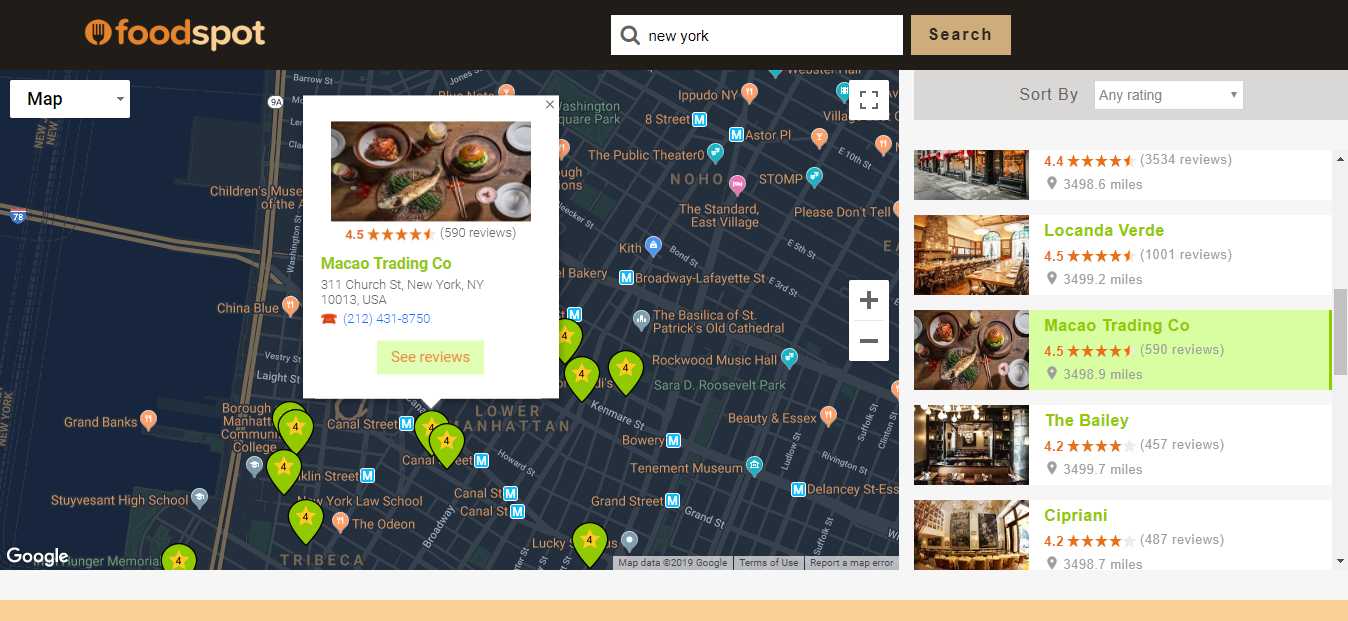
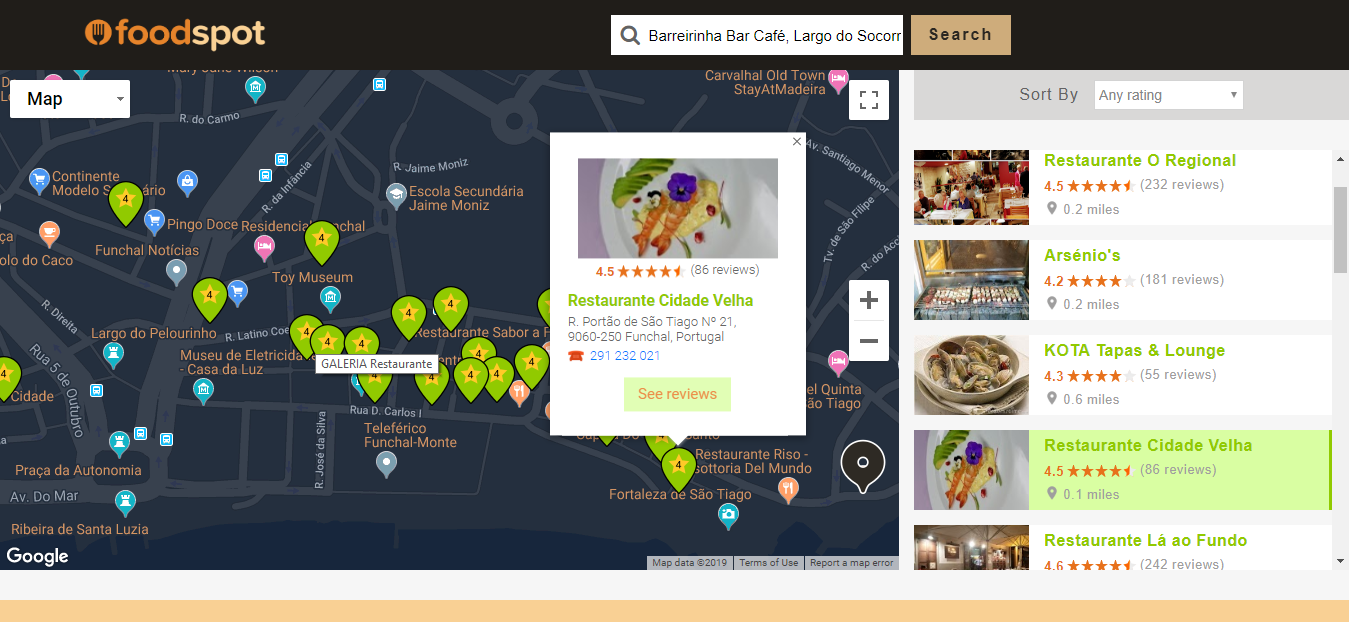
include API version, add form validation, update the README

diff --git a/js/app.js b/js/app.js
@@ -586,7 +586,7 @@ let getUserLocation = function (position) {
   // user location coordinates - read-only properties (black box)
   let lat = position.coords.latitude; // position.coords.latitude 
   let lng = position.coords.longitude;
-  console.log("To get the location used for this project, please use LAT (52.6431335), and LNG (1.3342981999999999)");
+  console.log("Google Maps API, version " + google.maps.version);
   pos = { lat: lat, lng: lng };
   createMap(pos);
 }
@@ -663,7 +663,7 @@ function geolocate() {
   let input = document.querySelector("input[name='find']");
   let options = {
     bounds: myMap.getBounds(),
-    types: ["establishment"]
+    types: ["establishment"] /* overview @ https://developers.google.com/maps/documentation/javascript/places */
   };
   let autocomplete = new google.maps.places.Autocomplete(input, options);
   // Avoid paying for data that you don't need by restricting the set of place fields that are returned to just the address components.
@@ -676,8 +676,17 @@ function geolocate() {
     
     if (!currentLocation.geometry) {
       // User entered the name of a Place that was not suggested and pressed the Enter key, or the Place Details request failed.
-      console.log("No details available for query, '" + currentLocation.name + "'");
-      window.alert("No details available for query, '" + currentLocation.name + "'");
+      // console.log("No details available for query, '" + currentLocation.name + "'");
+      // window.alert("No details available for query, '" + currentLocation.name + "'");
+      let noRestFound_msg =`
+      <div id="error-card">
+        <div id="msg-wrapper">
+          <div class="logo-wrapper"> <img src="images/no-location-marker.png" alt="no restaurants"/> </div>
+          <h4 style="color: #2E2A24; font-weight: 600; margin: 30px 0 15px 0;">No restaurants found at this location. Please search a different place.</h4>
+        </div>
+      </div>`;
+    document.getElementById('msg_display').innerHTML = noRestFound_msg;
+    console.log('No restaurants found at this location. Please search a different place.');
       return;
     } else {
       // If the place has a geometry
@@ -843,6 +852,9 @@ function restPlace(name, address, telephone, website, lat, lng, rating, userRati
     }, // .brief
     reviews: function() {
       let rvwsList = '<ul>';
+      if (!rReviews) {
+        document.getElementById('rest-reviews').innerHTML = 'No reviews found';
+      }
       for (let i = 0; i < rReviews.length; i++) {
         console.log('User: ' + rReviews[i].author_name + '\nReview Time: ' 
           + rReviews[i].relative_time_description + '\nRating: ' + rReviews[i].rating + '\nReview: ' + rReviews[i].text);
@@ -878,11 +890,12 @@ function getRestaurants(results, status) { // (Array<PlaceResult>, PlacesService
       <div id="error-card">
         <div id="msg-wrapper">
           <div class="logo-wrapper"> <img src="images/no-location-marker.png" alt="no restaurants"/> </div>
-          <h4 style="color: #2E2A24; font-weight: 600; margin: 30px 0 15px 0;">No restaurants found at your current location</h4>
+          <h4 style="color: #2E2A24; font-weight: 600; margin: 30px 0 15px 0;">No restaurants found at this location. Please search a different place.</h4>
         </div>
       </div>`;
     document.getElementById('msg_display').innerHTML = noRestFound_msg;
-    console.log('No restaurants found at your current location');
+    console.log('No restaurants found at this location. Please search a different place.');
+
   } else if (status == google.maps.places.PlacesServiceStatus.OVER_QUERY_LIMIT) {
     console.log('The app\'s exceeded its request usage limits. Give it a few seconds or try within the next 24 hours.'); // error code 403 or 429
   } else if (status == google.maps.places.PlacesServiceStatus.REQUEST_DENIED || status == google.maps.places.PlacesServiceStatus.INVALID_REQUEST) {
@@ -999,7 +1012,7 @@ mql.addListener(myCarousel); // Attach listener function on state changes
 /** Showing Restaurant reviews
 *****************************************************/
 function showReviews(rest_index) {
-  document.querySelector('#bottomSection').style.display = 'block';
+  const bottomSection = document.querySelector('#bottomSection').style.display = 'block';
   // show restaurant brief and Street View
   for (let i = 0; i < restaurantsList.length; i++) {
     if (i === rest_index) {
@@ -1032,7 +1045,9 @@ function showReviews(rest_index) {
 //Open modal form
 function addReview(rest_index) {
   document.getElementById('review_dialog-box').innerHTML = modal;
-  //passing onClick function to a button
+  //passing new attributes to form elems
+  // const nameInput = document.getElementById('full-name');
+  // nameInput.setAttribute('required', '');
   let modal_addReviewBtn = document.getElementById('add-review-btn');
   modal_addReviewBtn.setAttribute('onClick', `submitReview(${rest_index});`);
 }
@@ -1044,14 +1059,22 @@ function close_ReviewForm() {
 }
 //submit review form
 function submitReview(rest_index) {
-  document.getElementById('full-name').required;
-  document.getElementById('user-review').required;
   // take user input 
   const user_fName = document.getElementById('full-name').value;
+  // user name validation
+  if (user_fName == "") {
+    alert("Please include your name");
+    return false;
+  }
   const dropdown = document.getElementById('score');
   const score = dropdown.options[dropdown.selectedIndex].text;
   let user_score = parseInt(score, 10);
   const user_comment = document.getElementById('user-review').value;
+  // user review validation
+  if (user_comment == "") {
+    alert("Please add a review.");
+    return false;
+  }
   // add review to restaurantsList array
   const newReview = { 
     author_name: user_fName,
@@ -1066,6 +1089,7 @@ function submitReview(rest_index) {
     }
   }
   close_ReviewForm(); 
+  console.log('Thank you! Your review will help other people find the best places to go.');
 }
 
 /** Find Place from Query
@@ -1110,3 +1134,4 @@ function codeAddress() {
 
   console.log(restaurantsList);
 }
+

diff --git a/index.html b/index.html
@@ -78,9 +78,9 @@
               </select> -->
               <select name="rating-list" id="rating-list" onchange="getSelect(this)">
                 <option selected value="[0,1,2,3,4,5]">Any rating</option>
-                <option value="[5]">5 stars</option>
-                <option value="[4]">4 stars</option>
-                <option value="[1,2,3]">1-3 stars</option>
+                <option value="[5]">5 star</option>
+                <option value="[4]">4 and up</option>
+                <option value="[1,2,3]">1-3 and up</option>
               </select>
             </div>
             <div class="restaurants-list-wrapper">
@@ -105,7 +105,7 @@
           <div id="rest-reviews-wrapper" class="rest-info">
             <h3 style="height: margin: 0 0 4px; padding: 4px 0; font-weight: 600; color: #2E2A24;">Reviews
               <div style="float: right; display: flex; border: 1px solid #2E2A24; margin-bottom: 2px; padding: 2px; width: 38px; height: 38px;">
-                <a href="#header" title="go up" style="display: flex;"><img src="images/up-icon.png" style="width: 100%; height: 100%;"/></a>
+                <a href="#header" onclick="goUp();" title="go up" style="display: flex;"><img src="images/up-icon.png" style="width: 100%; height: 100%;"/></a>
               </div>
               <div style="float: right; display: flex; font-size: 14px; border: 1px solid #2E2A24; margin: 0 10px 2px 0; height: 38px;">
                 <button id="leave-review" class="open-button" style="display: flex;">
@@ -141,8 +141,8 @@
     <script src="https://code.jquery.com/jquery-3.4.1.js" integrity="sha256-WpOohJOqMqqyKL9FccASB9O0KwACQJpFTUBLTYOVvVU=" crossorigin="anonymous"></script>
     <script src="https://cdnjs.cloudflare.com/ajax/libs/popper.js/1.12.9/umd/popper.min.js" 
       integrity="sha384-ApNbgh9B+Y1QKtv3Rn7W3mgPxhU9K/ScQsAP7hUibX39j7fakFPskvXusvfa0b4Q" crossorigin="anonymous"></script>
-    <!-- Google Maps JavaScript API v3.38, initMap() -->
-    <script src="https://maps.googleapis.com/maps/api/js?v=3.38&key=AIzaSyCe_PRvM5yLjmgBr6tuRH5-Dv4PmhuGVvg&libraries=places,geometry&callback=initMap" async defer></script>
+    <!-- Google Maps JavaScript API 3.37.10a -->
+    <script src="https://maps.googleapis.com/maps/api/js?v=3.37.10a&key=AIzaSyCe_PRvM5yLjmgBr6tuRH5-Dv4PmhuGVvg&libraries=places,geometry&callback=initMap" async defer></script>
     <!-- JS app -->
     <script src="js/app.js"></script>    
   </body>

diff --git a/README.md b/README.md
@@ -4,24 +4,20 @@
 
 ### Project deliverables
 
-#### Step 1: 
 * A Google Maps map loaded with the Google Maps API 
 * The Google Maps map will focus immediately on the position of the user
-* A list of restaurants is provided as JSON data in a separate file
-* Load data from local source and display POI on the map, list restaurants on the side of the map
-* Display average reviews of each restaurant (ranging from 1 to 5 stars) 
-* When you click on a restaurant, the list of reviews should be shown, including a Street View thumbnail
+* Load POIs on the map, list corresponding restaurants on the side of the map
+* When the user clicks "See reviews", restaurant reviews should be shown, including a Street View picture
 * A filter tool allows the display of restaurants that have between X and Y stars, the map should be updated in real-time to show result queries
-
-#### Step 2: 
-* Add a review about an existing restaurant
 * Add a restaurant by right-clicking on a specific place on the map
+* Add a review about an existing restaurant
+* Implement the Google Place (Search) API to find restaurants in a particular display area
+* Add (Place) autocomplete feature
 
-#### Step 3: 
-* Implement the Google Search API to find restaurants in a particular display area
+### Author
 
 #### By [*Alexandre Formoso*](https://aformoso.dev)
-July 2019
+August 2019
 
 
 ### See full application :point_right: [https://alexandreformoso.github.io/OC-Project7-restaurant-review-site/](https://alexandreformoso.github.io/OC-Project7-restaurant-review-site/)
@@ -36,14 +32,14 @@ July 2019
 ===========================================================================================================*/
 
 function initMap() {
-  //if user's browser does not support Navigator.geolocation object
+  // if user's browser does not support Navigator.geolocation object
   if (!navigator.geolocation) {
     alert('Geolocation is not supported by your browser');
   } else {
     document.querySelector('#rattings-wrapper').style.display = 'none';
     document.querySelector('#bottomSection').style.display = 'none';
     document.querySelector('#footer').style.display = 'none';
-    //getCurrentLocation gets the current location of the device
+    // getCurrentLocation gets the current location of the user's device
     navigator.geolocation.getCurrentPosition(getUserLocation, handleErrors, options);
   }
 }
